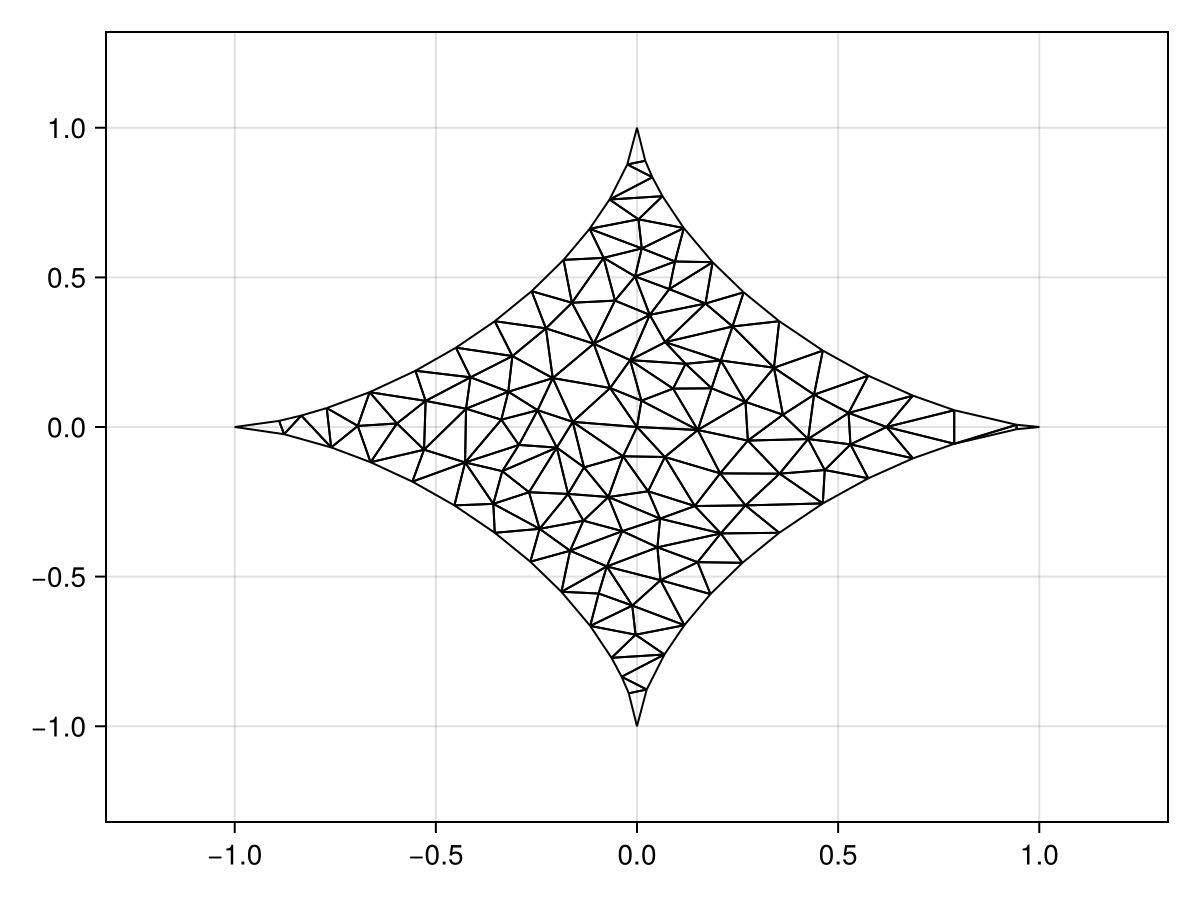
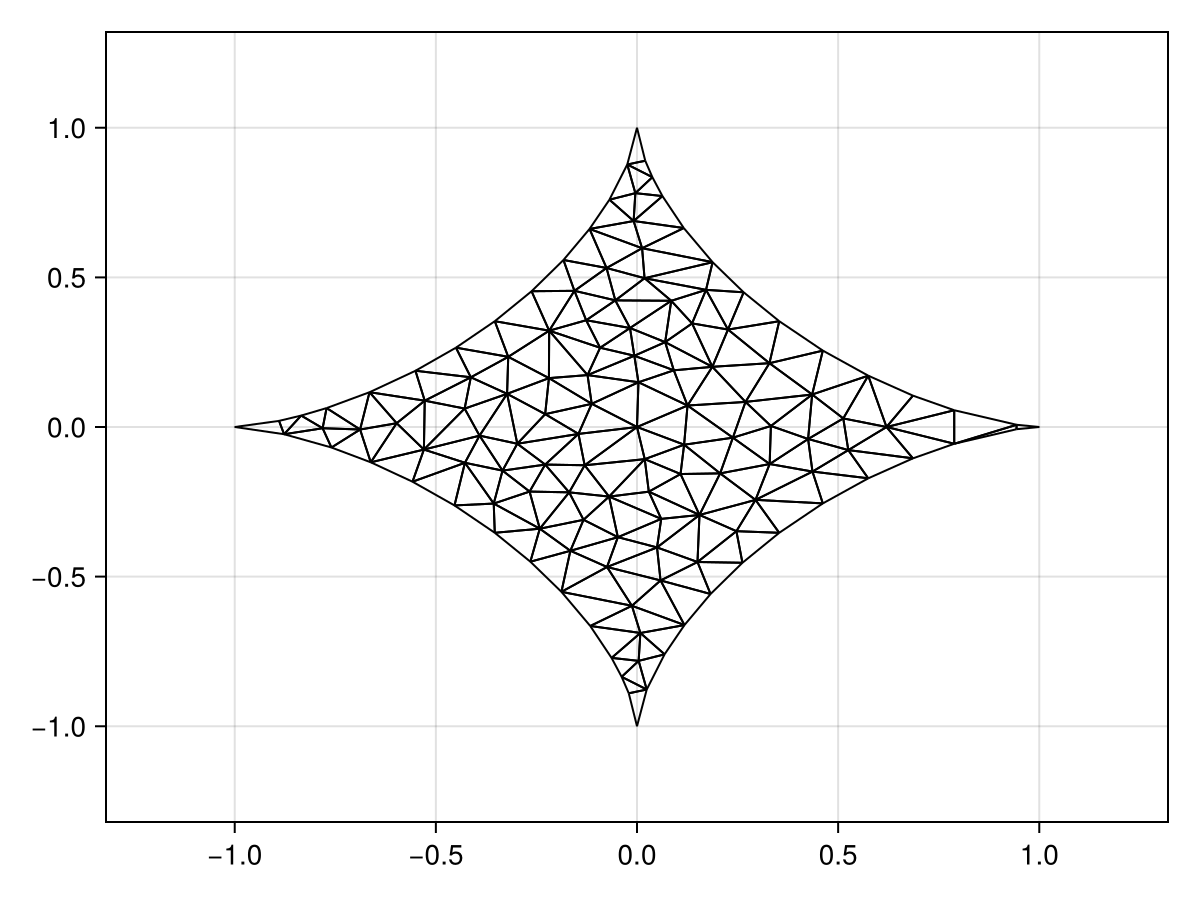
Removed O(|boundary nodes|^2) complexity for constrained triangulations; Fix some small issues with curves

Changed region(s): [[0.2467, 0.1867, 0.74, 0.7467]]

diff --git a/NEWS.md b/NEWS.md
@@ -37,6 +37,9 @@
 - Fixed several errors in the documentation. In particular, the mathematical details now use the correct definition of a Delaunay edge, the correct sign convention for the orientation predicate, the correct test for a point being inside a diametral circle or lens, and the correct second derivatives of circular and elliptical arcs, and they describe how unbounded Voronoi polygons are clipped since [#239](https://github.com/JuliaGeometry/DelaunayTriangulation.jl/issues/239). Some docstrings that were attached to the wrong function (e.g. for `each_generator`) have also been fixed.
 - `triangulate` is much faster for large numbers of points, e.g. about twice as fast for 100,000 random points, three times as fast for 300,000, and 4.5 times as fast for 1,000,000 (14 s instead of 66 s). With `randomise = true`, the points are now inserted in a biased randomised insertion order (see `DelaunayTriangulation.brio_order`) rather than in a uniformly random order. The order is still random, but within each of its rounds the points are sorted along a Hilbert curve, so that consecutive points are nearly always close together. The point location for each new point then starts from the closer of the last inserted point and one random vertex (the new default `num_sample_rule` with `randomise = true` is `DelaunayTriangulation.spatial_num_samples`), instead of the closest of `∛n` random vertices. For points in general position the triangulation is the same, but for degenerate point sets, e.g. points on a grid, `triangulate` may now return a different (still Delaunay) triangulation for the same `rng`, and the `rng` is used differently. To insert the points in the previous order, use `insertion_order = setdiff!(shuffle!(rng, collect(each_point_index(points))), skip_points)` and `num_sample_rule = DelaunayTriangulation.default_num_samples`.
 - Fixed `refine!` throwing a `BoundsError` for some domains with narrow channels between boundaries, e.g. for about a quarter of the random point sets in the tight walls example in the tests. When the circumcenter of a triangle was behind the boundary at the vertex that its point location started from, the point location stopped before it found any triangle, and the empty triangle it returned was used. The centroid of the triangle is now inserted instead, as for other circumcenters that can not be seen from their triangle.
+- `triangulate` is much faster for domains with many boundary nodes. To find the points outside of the domain, the distance from the boundary, which takes time proportional to the number of boundary nodes, was computed for every boundary node for each boundary edge, so that this took time proportional to the cube of the number of boundary nodes. For 10,000 random points in a square with 400 boundary nodes, `triangulate` now takes 63 ms instead of 225 ms (the same as without a boundary), and in a square with 4,000 boundary nodes it takes 0.09 s instead of minutes. The triangulations are the same as before.
+- Fixed where `triangulate` and `refine!` split the boundary near small angles of curve-bounded domains. The point at the required distance from the vertex at the small angle was found by bisection from an interval that was on the wrong side of it when searching backwards along a `BezierCurve`, `BSpline` or `CatmullRomSpline`, so that it could be far from that distance. The bisection also stopped at an absolute rather than relative tolerance, so that for any curve the point was inaccurate at small scales. Similarly, `DelaunayTriangulation.get_circle_intersection` for a `LineSegment` now returns the parameter value on the segment rather than on the part of the segment that it searched.
+- The `enrich` keyword argument of `triangulate`, for enriching a piecewise linear boundary as for a curve-bounded domain, is now documented.
 
 ## 1.7.0
 
